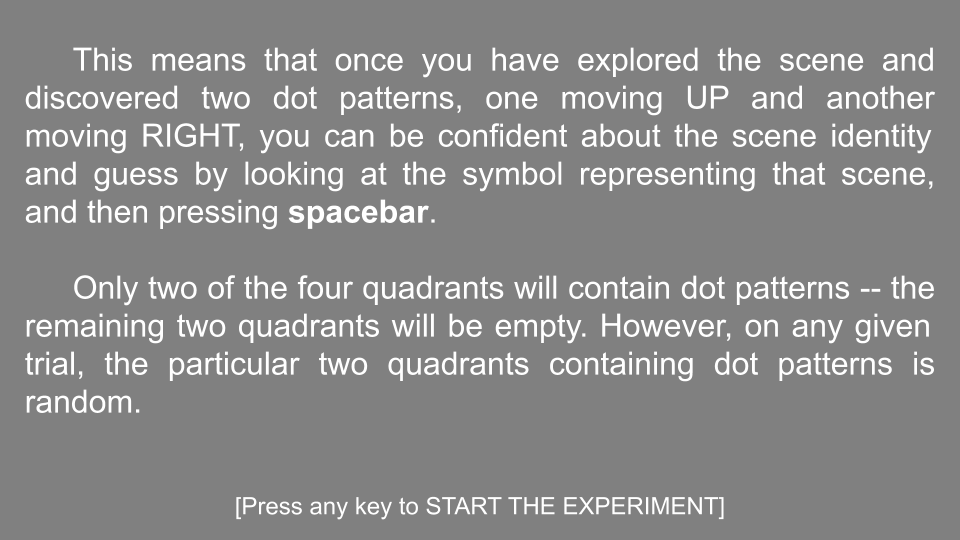
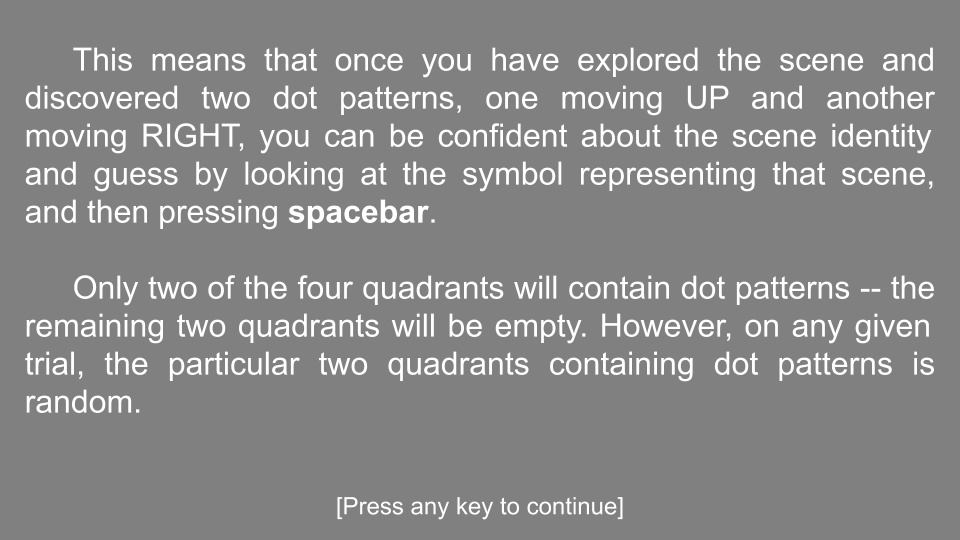
added instructions slides
1 slide for calibration
1 slide explaining fixation dot at beginning of each trial

Changed region(s): [[0.25, 0.9185, 0.75, 0.9778]]

diff --git a/SceneConstruction_v1.m b/SceneConstruction_v1.m
@@ -66,7 +66,7 @@ try
         
         if bl == 1
             
-            [inf,myVar,bl] = EyeLinkCalibration(Scr,inf,myVar,inst_rdp,bl,el); % calibrate before first block
+            EyeLinkCalibration(Scr,inf,inst_rdp,el);  % calibrate before first block
             
         end
             
@@ -76,7 +76,7 @@ try
             Screen('Flip',Scr.w); KbStrokeWait; 
             CountDown(Scr,myVar,30);
             
-            [inf,myVar,bl] = EyeLinkCalibration(Scr,inf,myVar,inst_rdp,bl,el); % recalibrate before main experiment
+            EyeLinkCalibration(Scr,inf,inst_rdp,el); % recalibrate before main experiment
                     
         end
             
@@ -181,6 +181,8 @@ clear ans answer bl block edfFile el FileName fName inst_rdp prompt Scr text tit
 
 % Now we can proceed to the Scene Construction (main) study 
 
+real_bl_idx = 2; % this is the block number at which the experimental trials begins - everything before is just practice
+
 try
     
     % Number of blocks to run if SC
@@ -207,13 +209,16 @@ try
         [myVar, block]  = SetUpTrialsMixed_SC(Scr,inf, myVar); % setUp CONDITIONS
         
 %        Show general instructions
-        Screen('DrawTexture', Scr.w, inst_sc.intro1); % intro instruction
+        Screen('DrawTexture', Scr.w, inst_sc.intro1); % intro instruction slide 1
         Screen('Flip',Scr.w); KbStrokeWait;
         
-        Screen('DrawTexture', Scr.w, inst_sc.intro2); % intro instruction
+        Screen('DrawTexture', Scr.w, inst_sc.intro2); % intro instruction slide 2
         Screen('Flip',Scr.w); KbStrokeWait;
         
-        Screen('DrawTexture', Scr.w, inst_sc.intro3); % intro instruction
+        Screen('DrawTexture', Scr.w, inst_sc.intro3); % intro instruction slide 3
+        Screen('Flip',Scr.w); KbStrokeWait; 
+        
+        Screen('DrawTexture', Scr.w, inst_sc.intro4); % intro instruction slide 3
         Screen('Flip',Scr.w); KbStrokeWait; startBl = 1;
         
         
@@ -231,19 +236,19 @@ try
         
         
         if bl == 1
-            [inf,myVar,bl] = EyeLinkCalibration(Scr,inf,myVar,inst_sc,bl,el); 
+            EyeLinkCalibration(Scr,inf,inst_sc,el);
             block(bl).trials(1).Reward = 0; % initialize first trial of first block's reward to 0
         else
             block(bl).trials(1).Reward = block(bl-1).trials(end).Reward; % initialize next block's reward to be the reward accumulated at the end of the previous block 
         end
         
-        if bl == 3
+        if bl == real_bl_idx
             
             Screen('DrawTexture', Scr.w, inst_sc.breakScreen); % slide telling participants they have a break
             Screen('Flip',Scr.w); KbStrokeWait; 
             CountDown(Scr,myVar,30);
             
-            [inf,myVar,bl] = EyeLinkCalibration(Scr,inf,myVar,inst_sc,bl,el); % recalibrate before main experiment
+            EyeLinkCalibration(Scr,inf,inst_sc,el); % recalibrate before main experiment
                     
         end
 
@@ -260,11 +265,11 @@ try
                 block(bl).trials(tr).Reward = block(bl).trials(tr-1).Reward;
             end
             
-            [inf,trialData,el,recalib_flag] = RunTrial_SC(Scr,inf,myVar,el,bl,tr,block,block(bl).trials(tr));
+            [inf,trialData,el,recalib_flag] = RunTrial_SC(Scr,inf,myVar,el,bl,tr,block,block(bl).trials(tr),real_bl_idx);
             
              while recalib_flag
                 EyeLinkCalibration_interrupt(Scr,inf,bl,tr,el);
-                [inf,trialData,el,recalib_flag]  = RunTrial_SC(Scr,inf,myVar,el,bl,tr,block,block(bl).trials(tr));
+                [inf,trialData,el,recalib_flag]  = RunTrial_SC(Scr,inf,myVar,el,bl,tr,block,block(bl).trials(tr),real_bl_idx);
              end
             
             % add current trial's results to block structure

diff --git a/Instructions_RDP.m b/Instructions_RDP.m
@@ -2,36 +2,42 @@ function [inst] = Instructions_RDP(inf,Scr)
 
 if inf.language == 1                                  
      %% English
-    imagePath = 'MotionDiscrim/Instructions/RDP_instructions_new_gray1.png';
+    imagePath = 'MotionDiscrim/Instructions/RDP_instructions_E.png';
     image = imread(imagePath);
     inst.intro1 = Screen('MakeTexture', Scr.w, image);       % Make the image into a texture.
     
-    imagePath = 'MotionDiscrim/Instructions/RDP_instructions_new_gray2.png';
+    imagePath = 'MotionDiscrim/Instructions/RDP_instructions2_E.png';
     image = imread(imagePath);
     inst.intro2 = Screen('MakeTexture', Scr.w, image);       % Make the image into a texture.
     
-    imagePath = 'MotionDiscrim/Instructions/RDP_afterPractice.png';
+    imagePath = 'MotionDiscrim/Instructions/RDP_afterPractice_E.png';
     image = imread(imagePath);
     inst.intro3 = Screen('MakeTexture', Scr.w, image);       % Make the image into a texture.
     
+    imagePath = 'MotionDiscrim/Instructions/calibration_E.png';
+    image = imread(imagePath);
+    inst.calibration = Screen('MakeTexture',Scr.w,image);    % Make the image into a texture.
     
    
 else
     %% German
-
-    imagePath = 'MotionDiscrim/Instructions/RDP_instructions_new_gray1.png';
+imagePath = 'MotionDiscrim/Instructions/RDP_instructions_G.png';
     image = imread(imagePath);
     inst.intro1 = Screen('MakeTexture', Scr.w, image);       % Make the image into a texture.
     
-    imagePath = 'MotionDiscrim/Instructions/RDP_instructions_new_gray2.png';
+    imagePath = 'MotionDiscrim/Instructions/RDP_instructions2_G.png';
     image = imread(imagePath);
     inst.intro2 = Screen('MakeTexture', Scr.w, image);       % Make the image into a texture.
     
-    imagePath = 'MotionDiscrim/Instructions/RDP_afterPractice.png';
+    imagePath = 'MotionDiscrim/Instructions/RDP_afterPractice_G.png';
     image = imread(imagePath);
     inst.intro3 = Screen('MakeTexture', Scr.w, image);       % Make the image into a texture.
     
-
+    imagePath = 'MotionDiscrim/Instructions/calibration_G.png';
+    image = imread(imagePath);
+    inst.calibration = Screen('MakeTexture',Scr.w,image);    % Make the image into a texture.
+    
+    
 end
 
 

diff --git a/Instructions_SC.m b/Instructions_SC.m
@@ -13,9 +13,17 @@ if inf.language == 1
     image = imread(imagePath);
     inst.intro3 = Screen('MakeTexture', Scr.w, image);       % Make the image into a texture.
     
+    imagePath = 'SceneConstructionProper/images/instr4_E.png';
+    image = imread(imagePath);
+    inst.intro4 = Screen('MakeTexture', Scr.w, image);       % Make the image into a texture.
+    
     imagePath = 'SceneConstructionProper/images/breakScreen_E.png';
     image = imread(imagePath);
     inst.breakScreen = Screen('MakeTexture', Scr.w, image);       % Make the image into a texture.
+    
+    imagePath = 'SceneConstructionProper/Instructions/calibration_E.png';
+    image = imread(imagePath);
+    inst.calibration = Screen('MakeTexture',Scr.w,image);    % Make the image into a texture.
     
     
    
@@ -34,12 +42,20 @@ else
     image = imread(imagePath);
     inst.intro3 = Screen('MakeTexture', Scr.w, image);       % Make the image into a texture.
     
+    imagePath = 'SceneConstructionProper/images/instr4_G.png';
+    image = imread(imagePath);
+    inst.intro4 = Screen('MakeTexture', Scr.w, image);       % Make the image into a texture.
+    
     imagePath = 'SceneConstructionProper/images/breakScreen_G.png';
     image = imread(imagePath);
     inst.breakScreen = Screen('MakeTexture', Scr.w, image);       % Make the image into a texture.
     
+    imagePath = 'SceneConstructionProper/Instructions/calibration_G.png';
+    image = imread(imagePath);
+    inst.calibration = Screen('MakeTexture',Scr.w,image);    % Make the image into a texture.
     
     
+   
 end
 
 

diff --git a/RunTrial_SC.m b/RunTrial_SC.m
@@ -1,4 +1,4 @@
-function [inf,trial_data,el,recalib_flag] = RunTrial_SC(Scr,inf,myVar,el,bl,tr,block,trialParams)
+function [inf,trial_data,el,recalib_flag] = RunTrial_SC(Scr,inf,myVar,el,bl,tr,block,trialParams,real_bl_idx)
 
 % Script for a single trial of the scene construction paradigm
 
@@ -55,7 +55,7 @@ else
     eyeCheckDur = round(  (myVar.ITI_sd*randn(1) + myVar.intertrialTime) /Scr.ifi );
 end
 
-if bl < 2
+if bl < real_bl_idx
     exploreDur     = round(myVar.train_exploreTime /Scr.ifi);                 % For early/practice blocks, make scene exploration time basically infinite
 else
     exploreDur     = round(myVar.exploreTime /Scr.ifi);                       % Duration of explore phase

diff --git a/EyeLinkCalibration.m b/EyeLinkCalibration.m
@@ -1,4 +1,4 @@
-function [inf,myVar,bl]=EyeLinkCalibration(Scr,inf,myVar,inst,bl,el)
+function EyeLinkCalibration(Scr,inf,inst,el)
 
 if ~inf.dummy
     %% CREATE FILE ON EYE-TRACKER
@@ -11,9 +11,9 @@ if ~inf.dummy
     
     %% CALIBRATION
     
-%     Screen('DrawTexture', Scr.w, inst.calibration); % INTRUCTION calibration
-%     Screen('Flip',Scr.w);
-%     KbStrokeWait;
+    Screen('DrawTexture', Scr.w, inst.calibration); % INTRUCTION calibration
+    Screen('Flip',Scr.w);
+    KbStrokeWait;
     
     EyelinkDoTrackerSetup(el);              % !!!!CALIBRATION!!!!!
     
